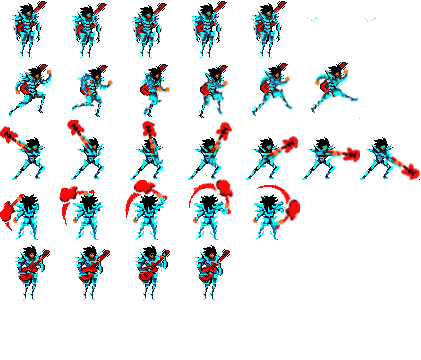
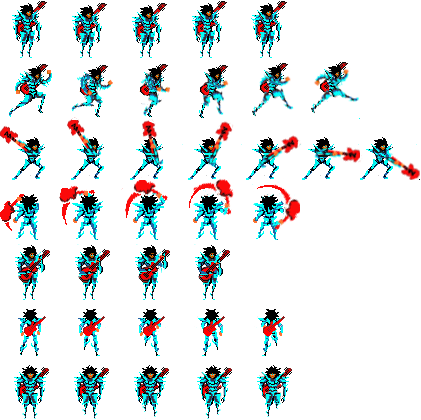
Updated Player Anims

diff --git a/src/prefabs/player.js b/src/prefabs/player.js
@@ -34,7 +34,7 @@ class Player extends Phaser.Physics.Arcade.Sprite {
         this.setup();
         this.playerSet = [this, this.weapon, this.shield];
 
-        this.anims.play('up');
+        this.anims.play('idle');
     }
 
     update() {
@@ -73,62 +73,75 @@ class Player extends Phaser.Physics.Arcade.Sprite {
     //handles the players basic movement
     playerMovement() { //BECAUSE I FORGOT DISCREET MATH, THE IF ELSES IN THIS BLOCK ARE SLOPPY.
         //this.weapon.body.velocity.copy(this.body.velocity)
-        if (this.scene.controls.w.isDown && this.canMove) {
-            if (this.anims.isPlaying && (this.anims.getCurrentKey() == 'play' || this.anims.getCurrentKey() == 'melee' || this.anims.getCurrentKey() == 'meleeUp')) {
-                //do nothing,
+        if (this.scene.controls.w.isDown || this.scene.controls.a.isDown || this.scene.controls.s.isDown || this.scene.controls.d.isDown) {
+            if (this.scene.controls.w.isDown && this.canMove) {
+                if (this.anims.isPlaying && (this.anims.getCurrentKey() == 'play' || this.anims.getCurrentKey() == 'melee' || this.anims.getCurrentKey() == 'meleeUp')) {
+                    //do nothing,
+                } else {
+                    this.setFlipY(false);
+                    this.anims.play('up', true);
+                }
+                this.attackDirection = 'w';
+                this.setAccelerationY(-playerAccel);
+            } else if (this.scene.controls.s.isDown && this.canMove) {
+                if (this.anims.isPlaying && (this.anims.getCurrentKey() == 'play' || this.anims.getCurrentKey() == 'melee' || this.anims.getCurrentKey() == 'meleeUp')) {
+                    //do nothing,
+                } else {
+                    this.setFlipY(false);
+                    this.anims.play('down', true);
+                }
+                this.attackDirection = 's';
+                this.setAccelerationY(playerAccel);
             } else {
-                this.setFlipY(false);
-                this.anims.play('up', true);
+                if (this.anims.isPlaying && (this.anims.getCurrentKey() == 'play' || this.anims.getCurrentKey() == 'melee' || this.anims.getCurrentKey() == 'meleeUp')) {
+                    //do nothing,
+                } else {
+                    this.setFlipY(false);
+                    //this.anims.play('idle', true);
+                };
+                this.setAccelerationY(0);
+                this.setDragY(playerDrag);
             }
-            this.attackDirection = 'w';
-            this.setAccelerationY(-playerAccel);
-        } else if (this.scene.controls.s.isDown && this.canMove) {
-            if (this.anims.isPlaying && (this.anims.getCurrentKey() == 'play' || this.anims.getCurrentKey() == 'melee' || this.anims.getCurrentKey() == 'meleeUp')) {
-                //do nothing,
-            } else {
-                this.setFlipY(false);
-                this.anims.play('down', true);
-            }
-            this.attackDirection = 's';
-            this.setAccelerationY(playerAccel);
-        } else {
-            if (this.anims.isPlaying && (this.anims.getCurrentKey() == 'play' || this.anims.getCurrentKey() == 'melee' || this.anims.getCurrentKey() == 'meleeUp')) {
-                //do nothing,
-            } else {
-                this.setFlipY(false);
-            };
-            this.setAccelerationY(0);
-            this.setDragY(playerDrag);
-        }
 
-        if (this.scene.controls.a.isDown && this.canMove) {
-            if (this.anims.isPlaying && (this.anims.getCurrentKey() == 'play' || this.anims.getCurrentKey() == 'melee' || this.anims.getCurrentKey() == 'meleeUp')) {
-                //do nothing,
+            if (this.scene.controls.a.isDown && this.canMove) {
+                if (this.anims.isPlaying && (this.anims.getCurrentKey() == 'play' || this.anims.getCurrentKey() == 'melee' || this.anims.getCurrentKey() == 'meleeUp')) {
+                    //do nothing,
+                } else {
+                    this.anims.play('right', true);
+                }
+                this.setFlip(true, false);
+                this.attackDirection = 'a';
+                this.setAccelerationX(-playerAccel);
+            } else if (this.scene.controls.d.isDown && this.canMove) {
+                if (this.anims.isPlaying && (this.anims.getCurrentKey() == 'play' || this.anims.getCurrentKey() == 'melee' || this.anims.getCurrentKey() == 'meleeUp')) {
+                    //do nothing,
+                } else {
+                    this.anims.play('right', true);
+                }
+                this.attackDirection = 'd';
+                //this.resetFlip();
+                this.setFlip(false, false);
+                this.setAccelerationX(playerAccel);
             } else {
-                this.anims.play('right', true);
+                if (this.anims.isPlaying && (this.anims.getCurrentKey() == 'play' || this.anims.getCurrentKey() == 'melee' || this.anims.getCurrentKey() == 'meleeUp')) {
+                    //do nothing,
+                } else {
+                    //this.anims.play('idle', true);
+                    this.setFlipY(false);
+                }
+                this.setAccelerationX(0);
+                this.setDragX(playerDrag);
             }
-            this.setFlip(true, false);
-            this.attackDirection = 'a';
-            this.setAccelerationX(-playerAccel);
-        } else if (this.scene.controls.d.isDown && this.canMove) {
-            if (this.anims.isPlaying && (this.anims.getCurrentKey() == 'play' || this.anims.getCurrentKey() == 'melee' || this.anims.getCurrentKey() == 'meleeUp')) {
-                //do nothing,
-            } else {
-                this.anims.play('right', true);
-            }
-            this.attackDirection = 'd';
-            //this.resetFlip();
-            this.setFlip(false, false);
-            this.setAccelerationX(playerAccel);
         } else {
+            this.setAcceleration(0);
+            this.setDrag(playerDrag);
             if (this.anims.isPlaying && (this.anims.getCurrentKey() == 'play' || this.anims.getCurrentKey() == 'melee' || this.anims.getCurrentKey() == 'meleeUp')) {
-                //do nothing,
+                    //do nothing,
             } else {
-                this.anims.play('up', true);
+                //this.anims.play('idle', true);
+                this.anims.play('idle', true);
                 this.setFlipY(false);
             }
-            this.setAccelerationX(0);
-            this.setDragX(playerDrag);
         }
     }
 

diff --git a/src/scenes/menu.js b/src/scenes/menu.js
@@ -157,12 +157,26 @@ class Menu extends Phaser.Scene {
     }
 
     createAnimations() {
+
+        this.anims.create({
+            key: 'idle',
+            frames: this.anims.generateFrameNames('mcAtlas', {
+                prefix: 'idle',
+                start: 1,
+                end: 5,
+                suffix: '',
+                zeroPad: 0,
+            }),
+            duration: 325,
+            repeat: -1,
+        });
+
         this.anims.create({
             key: 'right',
             frames: this.anims.generateFrameNames('mcAtlas', {
-                prefix: 'sprite',
-                start: 55,
-                end: 60,
+                prefix: 'run',
+                start: 1,
+                end: 6,
                 suffix: '',
                 zeroPad: 0,
             }),
@@ -173,9 +187,9 @@ class Menu extends Phaser.Scene {
         this.anims.create({
             key: 'up',
             frames: this.anims.generateFrameNames('mcAtlas', {
-                prefix: 'sprite',
-                start: 48,
-                end: 52,
+                prefix: 'runUp',
+                start: 1,
+                end: 5,
                 suffix: '',
                 zeroPad: 0,
             }),
@@ -186,9 +200,9 @@ class Menu extends Phaser.Scene {
         this.anims.create({
             key: 'down',
             frames: this.anims.generateFrameNames('mcAtlas', {
-                prefix: 'sprite',
-                start: 48,
-                end: 52,
+                prefix: 'runDown',
+                start: 1,
+                end: 5,
                 suffix: '',
                 zeroPad: 0,
             }),
@@ -199,9 +213,9 @@ class Menu extends Phaser.Scene {
         this.anims.create({
             key: 'play',
             frames: this.anims.generateFrameNames('mcAtlas', {
-                prefix: 'sprite',
-                start: 76,
-                end: 79,
+                prefix: 'playG',
+                start: 1,
+                end: 4,
                 suffix: '',
                 zeroPad: 0,
             }),
@@ -211,9 +225,9 @@ class Menu extends Phaser.Scene {
         this.anims.create({
             key: 'melee',
             frames: this.anims.generateFrameNames('mcAtlas', {
-                prefix: 'sprite',
-                start: 61,
-                end: 67,
+                prefix: 'atkMC',
+                start: 1,
+                end: 7,
                 suffix: '',
                 zeroPad: 0,
             }),
@@ -223,9 +237,9 @@ class Menu extends Phaser.Scene {
         this.anims.create({
             key: 'meleeUp',
             frames: this.anims.generateFrameNames('mcAtlas', {
-                prefix: 'sprite',
-                start: 69,
-                end: 73,
+                prefix: 'atkUp',
+                start: 1,
+                end: 5,
                 suffix: '',
                 zeroPad: 0,
             }),
